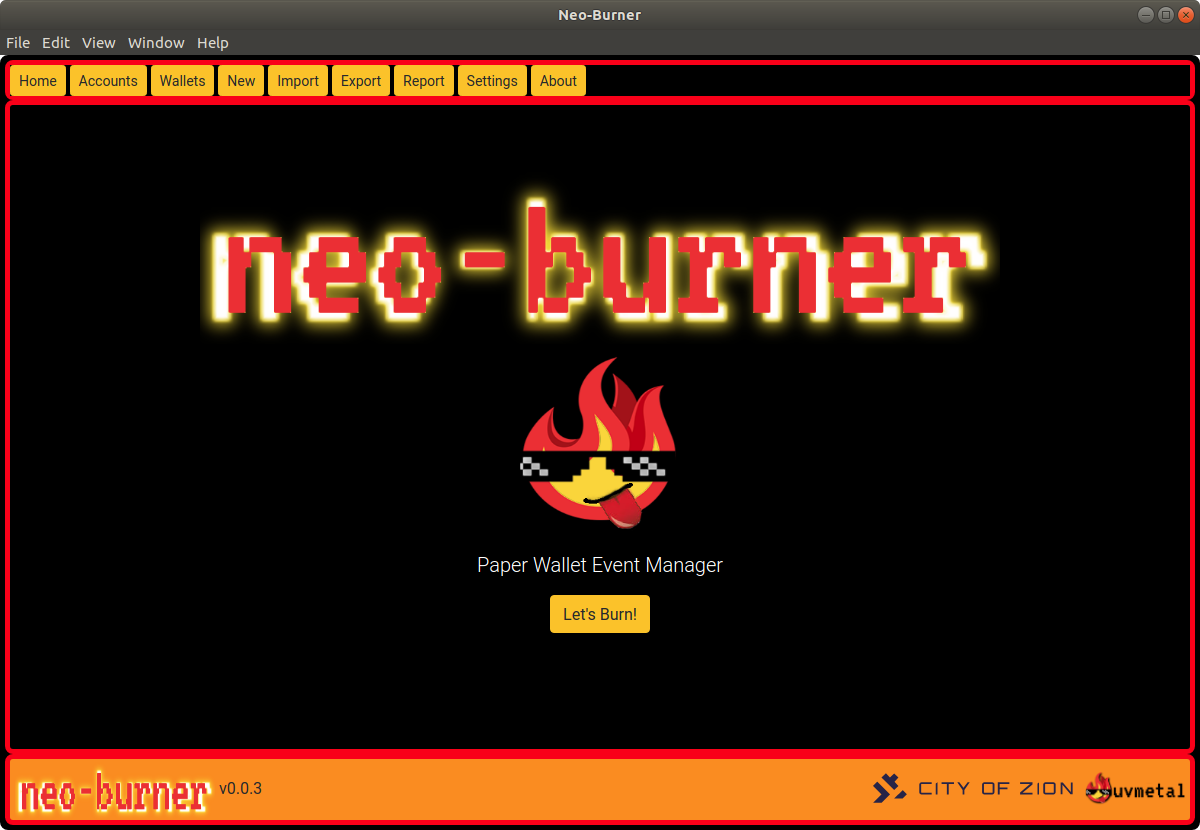
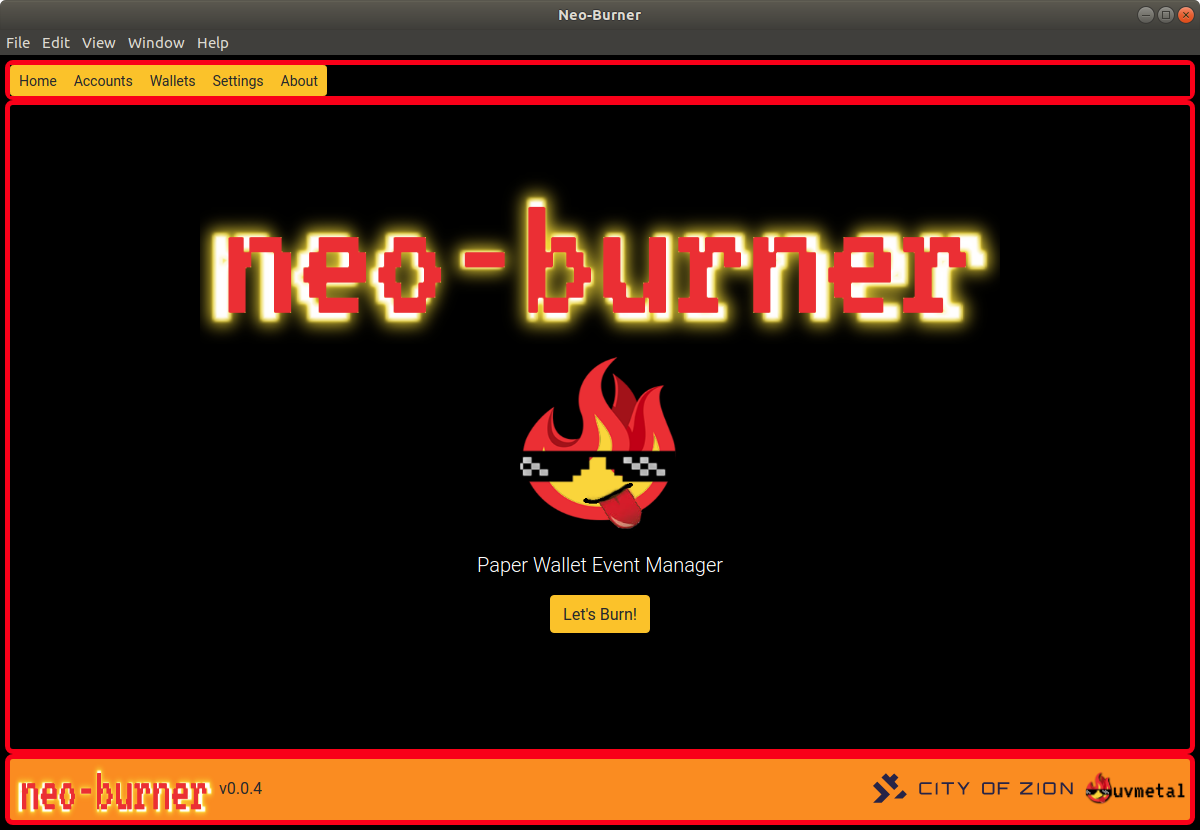
updated readme and screenshot to reflect current development status

Changed region(s): [[0.0308, 0.0602, 0.4933, 0.1205], [0.9867, 0.994, 1.0, 1.0]]

diff --git a/src/components/Ui/Main/Main.js b/src/components/Ui/Main/Main.js
@@ -74,7 +74,6 @@ class AppMain extends Component {
     })
 
     electron.ipcRenderer.send('read-user-settings')
-
   }
 
   componentWillReceiveProps() {
@@ -183,9 +182,7 @@ class AppMain extends Component {
     // footerContent = 'footer footer footer'
 
     if (this.props && this.props.location && this.props.location.pathname) {
-
       // this.setState({templateFolder: this.props.config.userData+'/'})
-
       // console.log(this.props.config.consoleBuffer)
       rightPaneContent = <Home />
 

diff --git a/README.md b/README.md
@@ -4,10 +4,11 @@
 ![neo-burner](/src/images/neo-burner-burning-logo-alt-3.png?raw=true "neo-burner")
 ![neo-burner](/src/images/neo-burner-ss.png?raw=true "neo-burner")
 
-Create Neo burner wallet that will facilitate the requirements mentioned in [Workflow](#workflow) below. The goal is to translate event participation to measurable Neo Smart Economy wallet conversion with event management, tracking, and reporting.
+Create Neo "burner" wallet that will facilitate the requirements mentioned in [Workflow](#workflow) below. The goal is to translate event participation to measurable Neo Smart Economy wallet conversion with event management, tracking, and reporting.
 
 This project leverages earlier work for the paper wallet [neo-paper](https://github.com/cityofzion/neo-paper).
 
+ This version currently does not support wallet conversion, i.e., it can generate accounts linked to events and their respective PDFs for print out, but the web piece is in dev so any conversion would have to be done through the provided neo-burner paper wallet URL configuration, if needed. skip to [Feature List](#feature-list) for full detail.
 
 <!-- TOC depthFrom:1 depthTo:6 withLinks:1 updateOnSave:1 orderedList:0 -->
 
@@ -34,8 +35,6 @@ This project leverages earlier work for the paper wallet [neo-paper](https://git
 <!-- /TOC -->
 
 # Overview
-
-Create Neo burner wallet that will facilitate the requirements mentioned in [Workflow](#workflow) below. The goal is to translate event participation to measurable Neo Smart Economy wallet conversion with event management, tracking, and reporting.
 
 ## Neo-Burner
 
@@ -134,6 +133,14 @@ This sections describes the overall process at a high level. There are three mai
 * Nice to Have
   * Ability to airdrop non-fungible tokens (NFT) to previously active wallet addresses.
   * Ability to integrate a quiz or interactive feature.
+* Does Have
+	* Account generation
+	* Save/Export generated accounts
+	* Import accounts previously generated
+	* Customize HTML template (images, layout, etc) by specifying a location to export the default template. You then customize that.
+	* Generate a PDF from the default or customized HTML template
+	* There is currently no in-app HTML editor: DIY4NOW
+	* Saves user settings (paths, filenames, templates, etc) in electron user data settings so they can be recalled between desktop sessions.
 
 
 # Install Software
@@ -142,7 +149,7 @@ This sections describes the overall process at a high level. There are three mai
 
 # Development
 
-Run an interactive dev version packaged with Electron.
+Run an interactive dev version packaged with Electron. This is currently the only method that will generate a working neo-burner desktop app. This version currently does not support wallet conversion, i.e., it can generate accounts linked to events and their respective PDFs for print out, but the web piece is in dev so any conversion would have to be done through the provided neo-burner paper wallet URL configuration.
 
 `yarn dev`
 
@@ -152,7 +159,7 @@ Run an interactive dev react version.
 
 ## Build
 
-Only build the software. Do not package it.
+Only build the software. Do not package it. Note: this is still being tested. Stick to `yarn dev` if you need to generate some paper wallets for an event.
 
 `yarn prepack` or `yarn build`
 
@@ -203,30 +210,10 @@ https://stackoverflow.com/questions/22475849/node-js-what-is-enospc-error-and-ho
 
 # Todo
 
--	Design installer to deploy sails as an alternative to manual package installation
-- Create project board for the following:
+-	Complete "neo-burner-server". This is a web piece that allows paper wallets created by neo-burner to be converted to other wallets, if completed within a given time period, to receive limited-time special-offer event-specific payout to the new address created in the new wallet.
+- Refine UI
+- Lots more testing
+- Maybe implement an in-app HTML editor to modify the default template used for PDF generation.
 
-## Client
-
-The client or front end is the user interface that tightly couples with the server and focuses on presenting those server controls to the user.
-
-### State
-(front-end)
-* Add state management with redux before the prop passing and state lifting gets out of hand
-
-
-### UI Components
-* Componentize network status button overlay flyout
-* Abstract nav away from vertical/horizontal
-* Event-driven flyout states
-  - I.e., clicking hamburger doesn't close session status automatically
-  - Ideally, this could be configurable flag
-* Main UI panes do not scroll independently, consider best approach i.e., add scroll or not
-
-
-### UI Design
-* Theme - the current UI design and layout was for testing and example
-* Dark Mode
-* Flex nav flyout
 
 # Learn More
